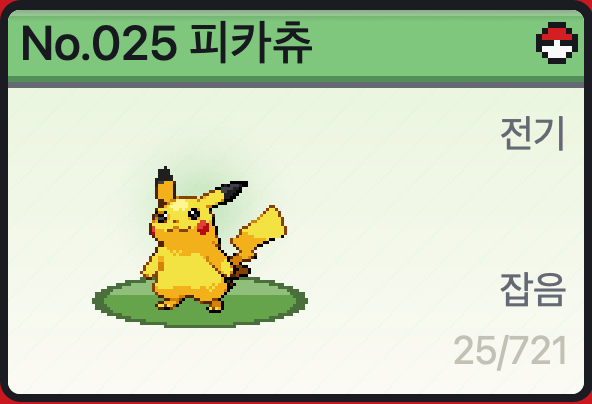
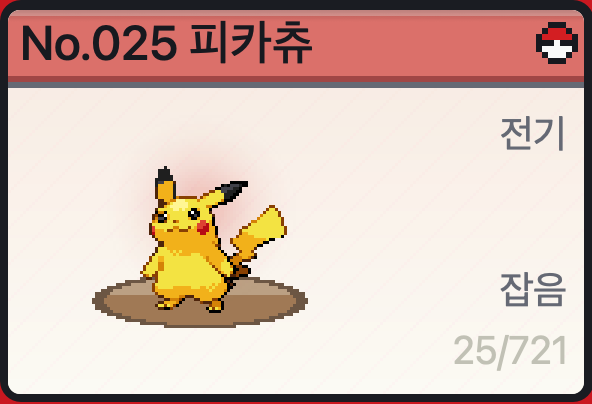
5.0 LCD mockups, second round (not for main): 2차-A (calm) and 2차-B (bold) on 시안 2 — each group's place behind its Pokémon, the title's band and mark, panels, B's full scenes, corners and bigger Pokémon, raid weather, the Mega raid's rainbow ring, symbol and streaks, notices by kind, the stone pick's
Claude-Session: https://claude.ai/code/session_019KTwpKn2jnYrdo4Y4LYsjs

Changed region(s): [[0.0, 0.0, 1.0, 0.2079], [0.152, 0.6832, 0.5169, 0.8317], [0.2736, 0.3861, 0.4257, 0.5941]]

diff --git a/docs/mockups/lcd-5.0/README.md b/docs/mockups/lcd-5.0/README.md
@@ -2,6 +2,26 @@
 
 앱에 실제로 넣은 시험 코드로 렌더한 화면이에요(그린 그림이 아니에요). 고른 시안 하나로 전체 화면에 적용해요.
 
+## 2차 시안 (시안 2 기반, 강도 2단계)
+
+| 파일 | 내용 |
+|---|---|
+| `r2-board.png` | 대표 화면 8개 × 지금 / 시안 2 / 2차-A / 2차-B (컬러 화면) |
+| `r2-board-grey.png` | 같은 보드, 회색 LCD("원작" 화면 설정) |
+| `r2-board-more.png` | 스톤 고르기 · 메가 난이도 · 레이드 난이도 · 안내(보상) · 안내(로딩) · 배틀 타워 · 트레이너 카드 · 교환 |
+| `r2-board-lists.png` | 목록 화면(가방 · 기술 · 우편함): 꾸밈 없이 그대로인지 확인용 |
+| `4-r2a-<화면>.png`, `5-r2b-<화면>.png` | 한 장씩. 끝에 `-grey`면 회색 LCD |
+
+- **2차-A (차분)**: 시안 2의 색 띠에 묶음 마크(몬스터볼 · 도감 · 친구 · 편지 · 가방 · 타워 · 레이드 · 메가 키스톤 · 카드)를 붙였어요. 포켓몬 뒤 왼쪽 창에만 장소 그림(풀밭 · 연구소 책장 · 센터 · 편지지 · 마트 진열대 · 타워 · 동굴)이 들어가고, 글자는 흰 패널 위에 있어요.
+- **2차-B (화려)**: 장소 그림이 LCD 전체에 깔리고, 네 귀퉁이에 틀 장식이 붙어요. 포켓몬이 조금 커져요(제목은 가리지 않게 아래로 내림). 레이드는 보스 타입의 날씨가 내려요(예: 에스퍼는 반짝이).
+- **메가 레이드**: 두 시안 모두 무지개 고리가 돌고, 메가 문양이 보스 뒤에 깔려요. B는 메가진화 연출과 같은 무지개 줄기가 안쪽으로 모여요.
+- **스톤 고르기**: 2차 시안에서는 고른 메가스톤이 오른쪽에 크게 나와요.
+- **안내 문구**: 종류별로 카드가 달라요. 보상은 금색 테두리와 별, 경고는 주황 테두리와 ⚠, 로딩은 파란 테두리와 모래시계예요. B는 뒤에 풀밭 풍경이 깔려요.
+- 글자는 그대로예요. 띠 위의 회색 글씨는 진하게 바꿨어요(예: 배틀 타워 "다음 보상 14연승"). 회색 LCD에서도 읽혀요.
+- 목록 화면(상점 · 가방 · 기술 · 우편함)은 글자가 많아요. 그래서 A는 띠, 마크, 흰 패널만 붙고, B는 패널 뒤로 장소 그림이 은은하게 비쳐요.
+
+## 1차 시안
+
 | 파일 | 내용 |
 |---|---|
 | `board.png` | 대표 화면 8개 × 지금 / 시안 1 수첩 / 시안 2 게임 / 시안 3 도트 (컬러 화면) |
